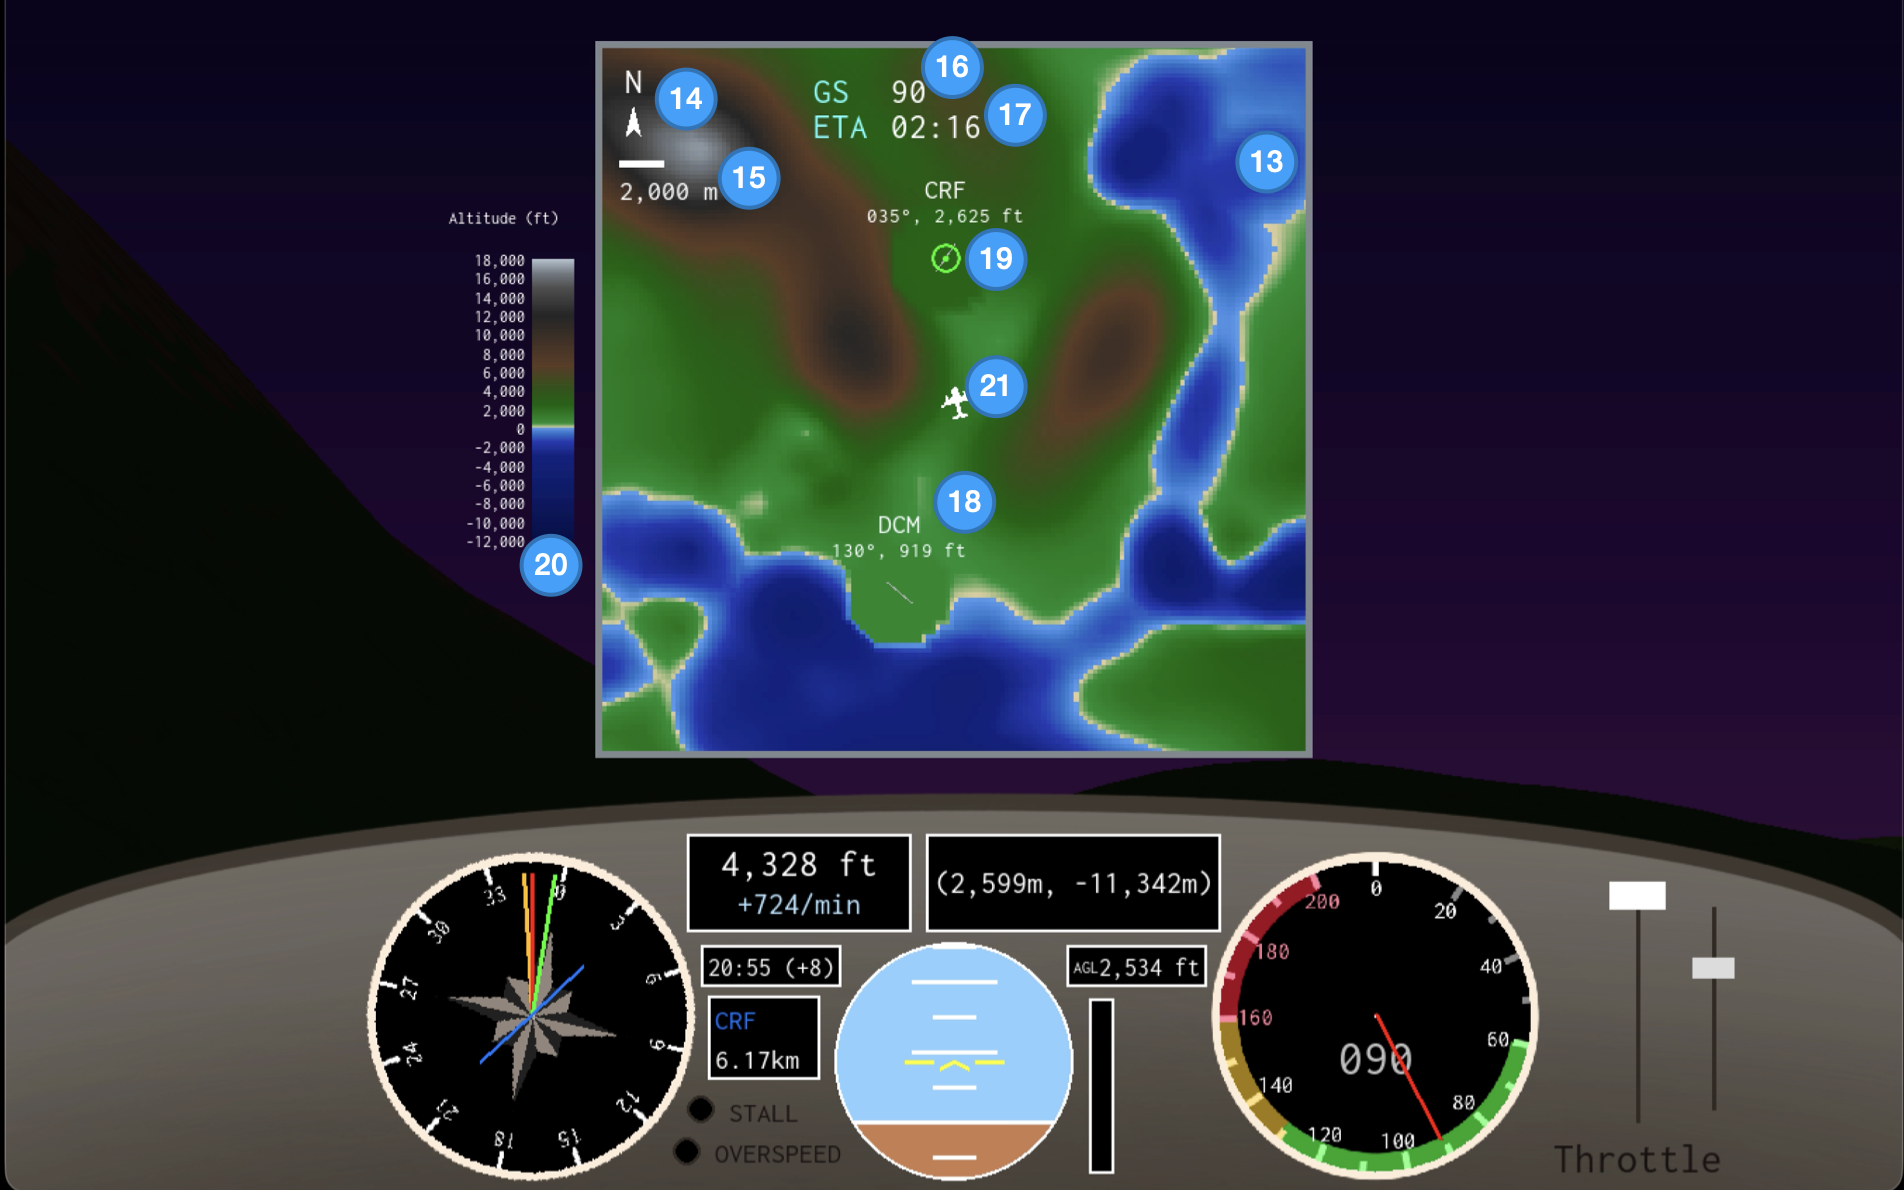
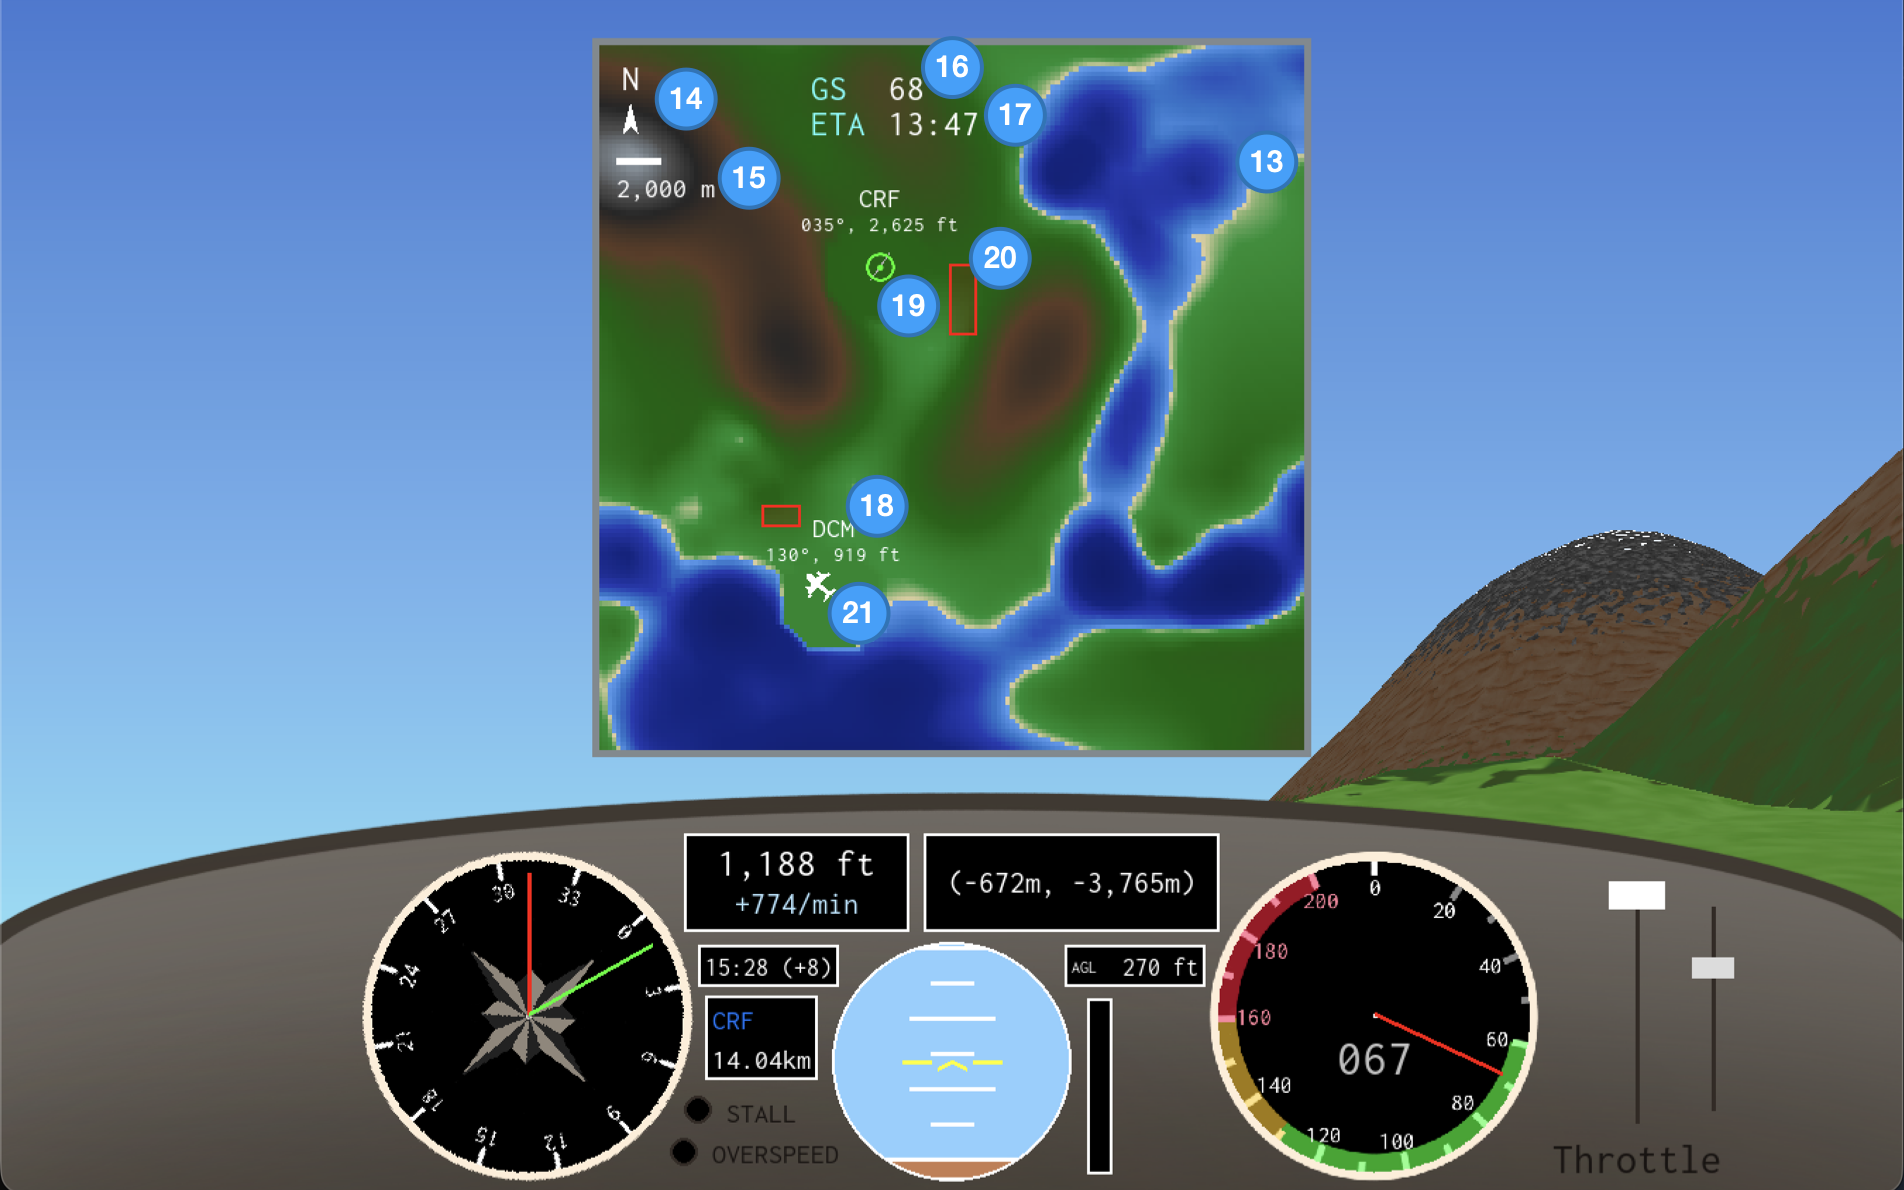
Update documentation

diff --git a/README.md b/README.md
@@ -5,14 +5,14 @@
 Pylines is a lightweight, open-source flight simulator made in Python with Pygame and OpenGL. With over 39,000 km² of terrain to explore, including vast mountain ranges, rivers and small towns, it uses a simplified flight model and intuitive controls to allow users to explore the mechanics of aviation without being overwhelmed.
 
 **Author:** Louis Masarei-Boulton  
-**Version:** 0.10.3 (semantic)
+**Version:** 0.11.0 (semantic)
 
 ## Features
 
 * Dynamic sky, terrain and building lighting, sun and moon.
-* Simplified (loosely) Cessna 172-inspired flight physics model and cockpit GUI.
+* Simplified, (loosely) Cessna 172-inspired flight physics model and cockpit GUI.
 * Runways, landing feedback, crash and damage mechanics.
-* GPS and map viewer for selecting destinations and navigation assistance.
+* GPS and map viewer for selecting destinations and navigation assistance, with optional advanced map info.
 * Glidescope and AGL indicator for landing assistance.
 * Small towns near runways to explore.
 
@@ -71,9 +71,10 @@ Pylines is a lightweight, open-source flight simulator made in Python with Pygam
     * Estimated time until arrival at the selected GPS destination
 18. Runway information shown on map
 19. GPS destination marker
-20. Altitude-to-colour key
+20. Prohibited zones
+    * Prohibited zones are shown on the map as red boxes.
 21. You!
-    * Map icon showing your location.
+    * Map icon showing your current location.
 
 Note: aviation instruments use real-world aviation units, while navigation uses metric units.
 
@@ -93,12 +94,15 @@ Note: aviation instruments use real-world aviation units, while navigation uses 
   * W/S - zoom in/out
   * Arrows - pan map
   * Space - re-centre
+  * H (hold) - show advanced map info
 
 **Meta Controls**
 * R - restart flight
 * P - return to menu
 
 ## World
+
+### Runways and Towns
 
 * `DCM` - Darculus Metropolis
   * Runway Information:
@@ -116,6 +120,28 @@ Note: aviation instruments use real-world aviation units, while navigation uses 
     * Heading: 108°/288°
   * Low to mid altitude flatlands with a cool breeze coming from the east. It also isn't too far off from some of the best beaches in the region. Darculus residents would be jealous.
 
+### Prohibited Zones
+
+Certain regions enforce operational restrictions for safety, wildlife protection, or military activity. Entering these zones will trigger warnings and may affect pilot standing.
+
+* `DCM-MIL1` – Darculus Airbase Restricted Zone
+
+  * Centre Coordinates: (-2,000, -6,500)
+  * Area: 1,800 m × 1,000 m (1.8 km²)
+  * The Darculus military units are always busy with weapons testing and training, and their captains have a strong temper. Best not to get in their way.
+
+* `CRF-NFZ1` – Central Remote Fields Dense Wildlife Zone
+
+  * Centre Coordinates: (6,000, -16,000)
+  * Area: 1,300 m × 3,200 m (4.16 km²)
+  * A fertile, biodiverse strip of land off to the east of the small town in the Central Remote Fields. Local wildlife enthusiasts love it, but pilots don't. Too many birds that could get into the engines.
+
+* `DCM-HAZ1` – Darculus Fog Zone
+
+  * Centre Coordinates: (-5,000, 13,000)
+  * Area: 3,000 m × 3,000 m (9 km²)
+  * Several planes from the Rebased District that passed through this zone have mysteriously disappeared with unknown cause. Since then, pilots in the region deemed that it's safer to just avoid this area entirely.
+
 ## Project Status
 
 **In Development**
@@ -128,7 +154,6 @@ Note: aviation instruments use real-world aviation units, while navigation uses 
 * Aircraft customisation
 * Unit switching
 * Simple flight exercises, guides, notes
-* Prohibited zones
 * Improved sound effects
 * Improved low-speed turn handling
 
